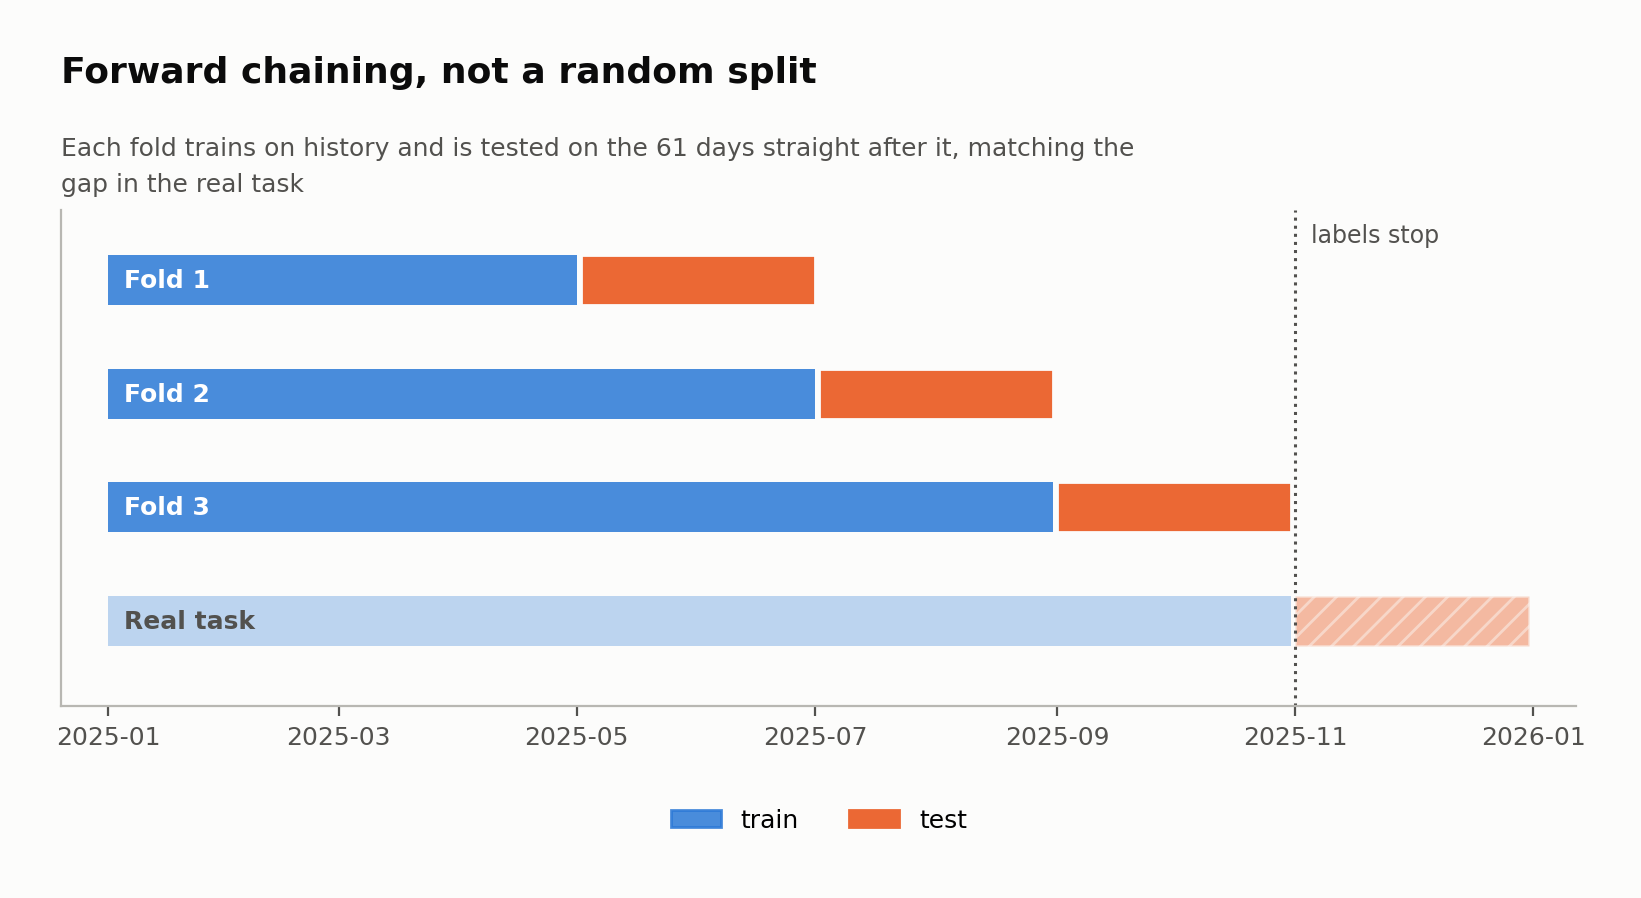
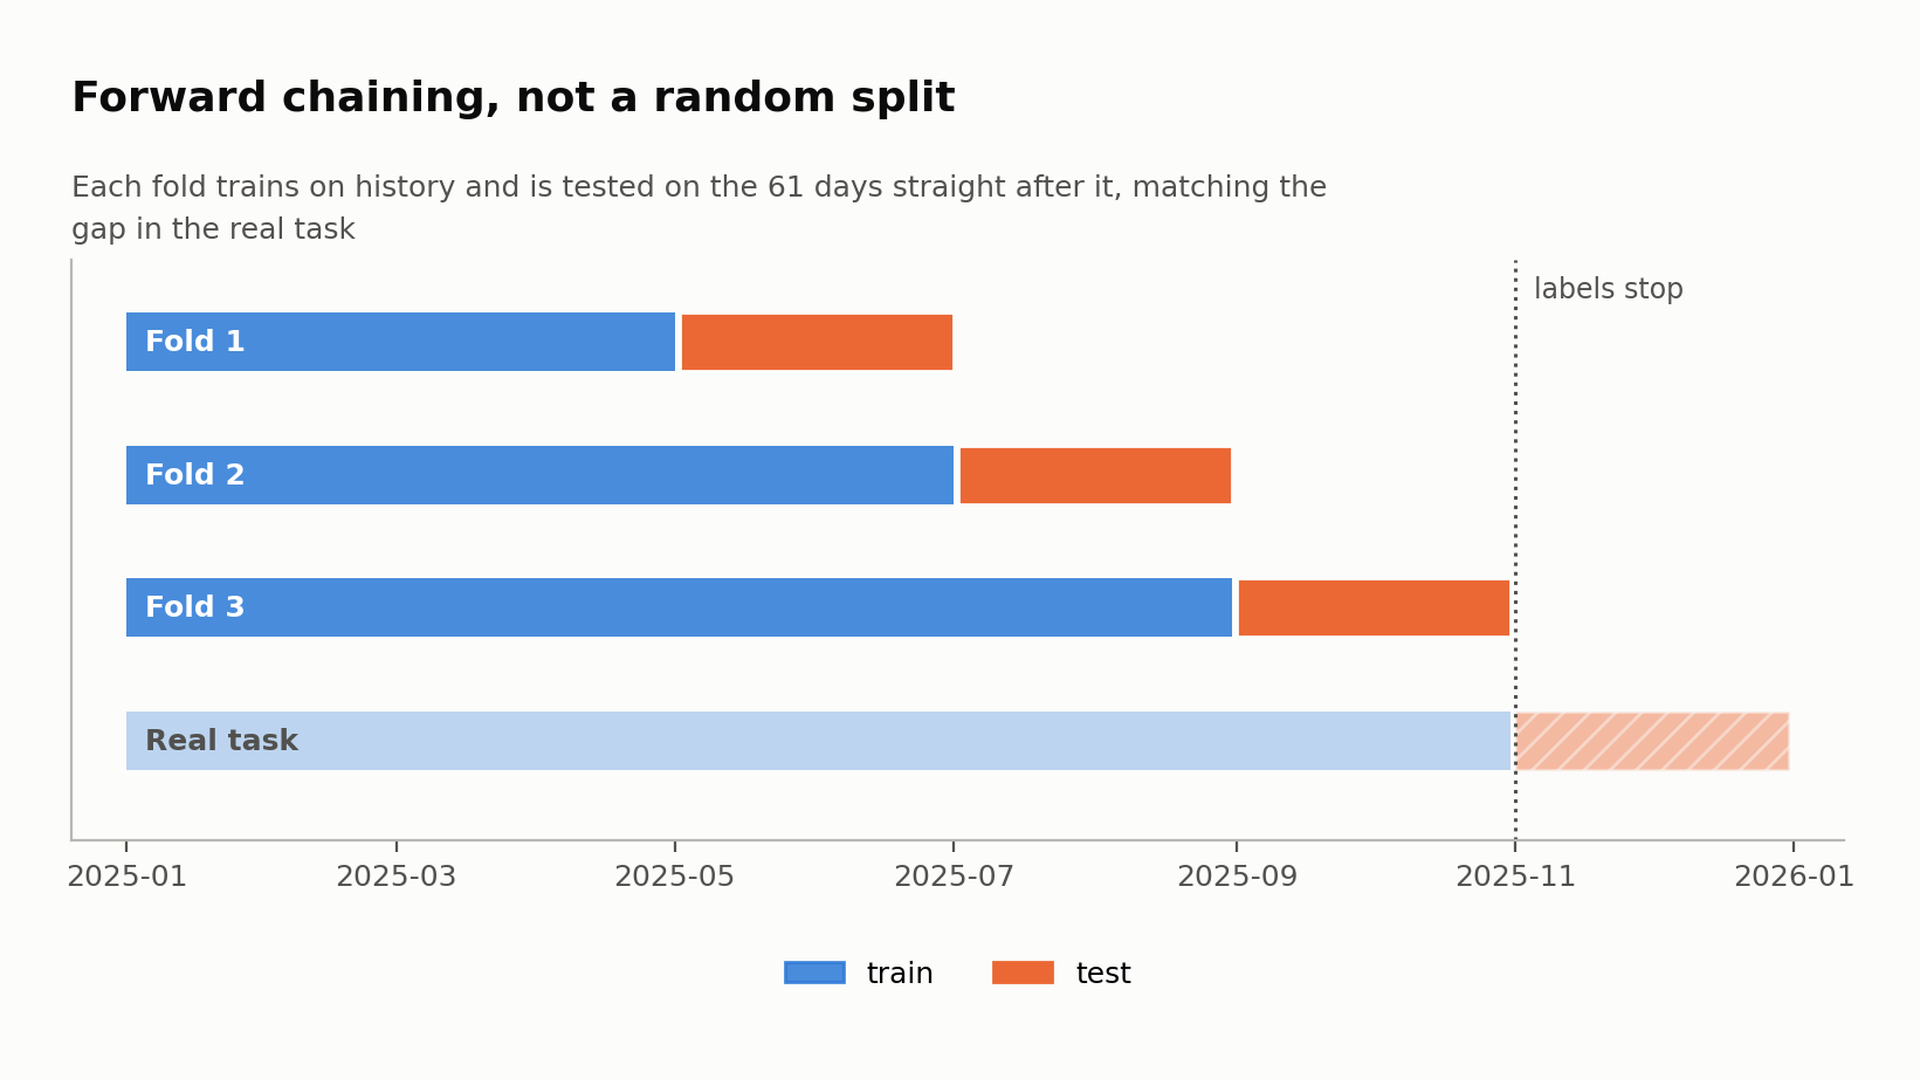
fix: pad every figure to a uniform 1920x1080 canvas

diff --git a/make_charts.py b/make_charts.py
@@ -215,6 +215,30 @@ def fig_december():
     save(fig, "05_december_probe.png")
 
 
+CANVAS = (1920, 1080)   # 16:9, one size for every figure
+
+
+def normalise():
+    """Pad every figure onto an identical canvas.
+
+    `bbox_inches="tight"` crops to content, so each chart comes out a slightly
+    different size. That is fine in isolation and looks careless when five of
+    them are swiped through one after another, so they all get centred on the
+    same canvas afterwards.
+    """
+    from PIL import Image
+    for path in sorted(FIG.glob("0*.png")):
+        img = Image.open(path).convert("RGB")
+        scale = min(CANVAS[0] / img.width, CANVAS[1] / img.height)
+        img = img.resize((round(img.width * scale), round(img.height * scale)),
+                         Image.LANCZOS)
+        sheet = Image.new("RGB", CANVAS, SURFACE)
+        sheet.paste(img, ((CANVAS[0] - img.width) // 2,
+                          (CANVAS[1] - img.height) // 2))
+        sheet.save(path)
+        print(f"  {path.name}  {CANVAS[0]} x {CANVAS[1]}")
+
+
 def main():
     FIG.mkdir(parents=True, exist_ok=True)
     train = D.repair_weight(D.load_train())
@@ -222,6 +246,7 @@ def main():
     fig_target(train); fig_split(train); fig_ablation(abl)
     fig_floor(abl, D.flag_inflated(train).mean() * 100)
     fig_december()
+    normalise()
 
 
 if __name__ == "__main__":
